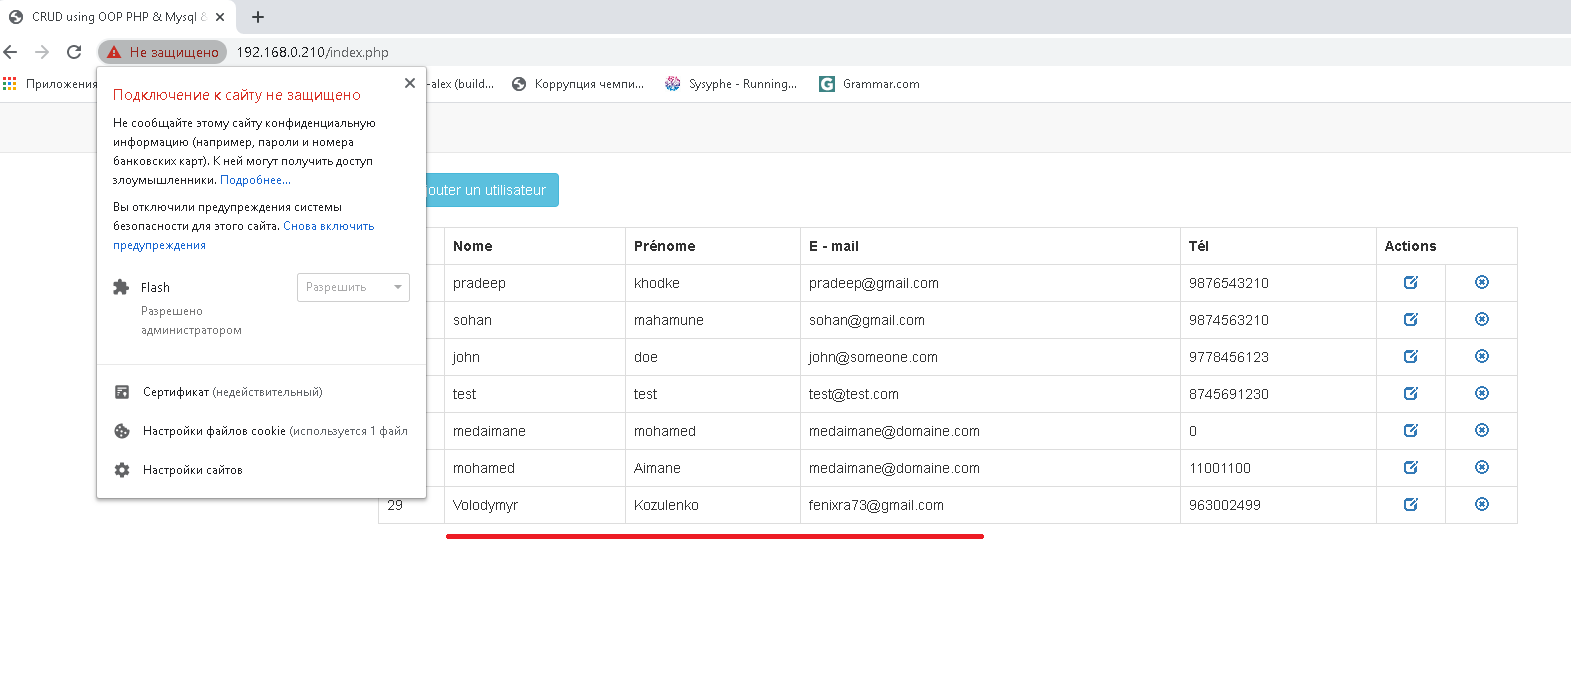
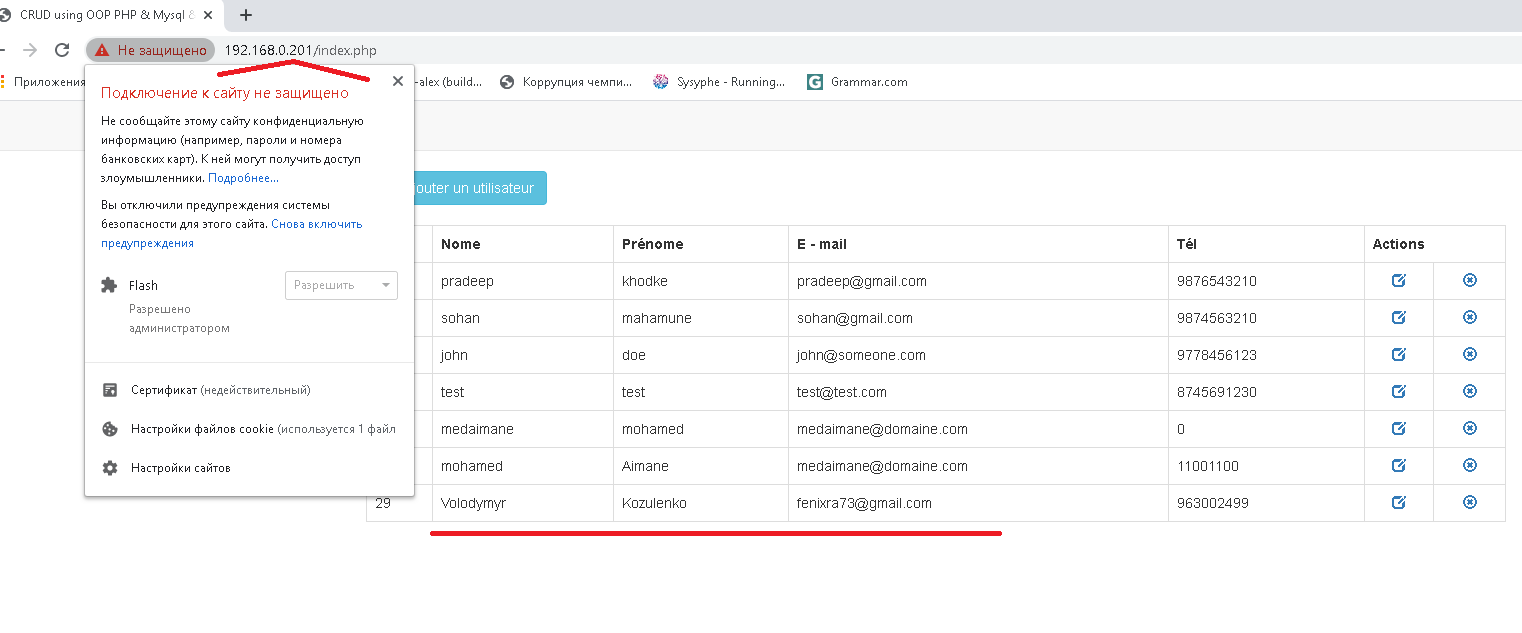
add haproxy ssl and pic

diff --git a/task5-ansible-v2/readme.md b/task5-ansible-v2/readme.md
@@ -58,14 +58,23 @@ defaults
   skip
   ////////
 frontend  www
-    bind {{ ip_ext_lb }}:{{ port_ext_lb }}
+    bind {{ hostvars['loadbalancer'].ansible_host }}:{{ port_ext_lb }}
     default_backend nginx_pool
 
 backend nginx_pool
     balance     {{ balance_method }}
     mode http
-    server  web1 {{ ip_nginx_1 }}:{{ port_nginx_1 }} check
-    server  web2 {{ ip_nginx_2 }}:{{ port_nginx_2 }} check
+    server  web1 {{ hostvars['web1'].ansible_host }}:{{ port_nginx_1 }} check
+    server  web2 {{ hostvars['web1'].ansible_host }}:{{ port_nginx_2 }} check
+
+## HTTPs section
+listen https-proxy {{ hostvars['loadbalancer'].ansible_host }}:443
+mode tcp
+balance source
+option httpclose
+option forwardfor
+server web1 {{ hostvars['web1'].ansible_host }}:443 check port 443
+server web2 {{ hostvars['web2'].ansible_host }}:443 check port 443
 
 ```
 ### roles/lb_haproxy/tasks/main.yml
